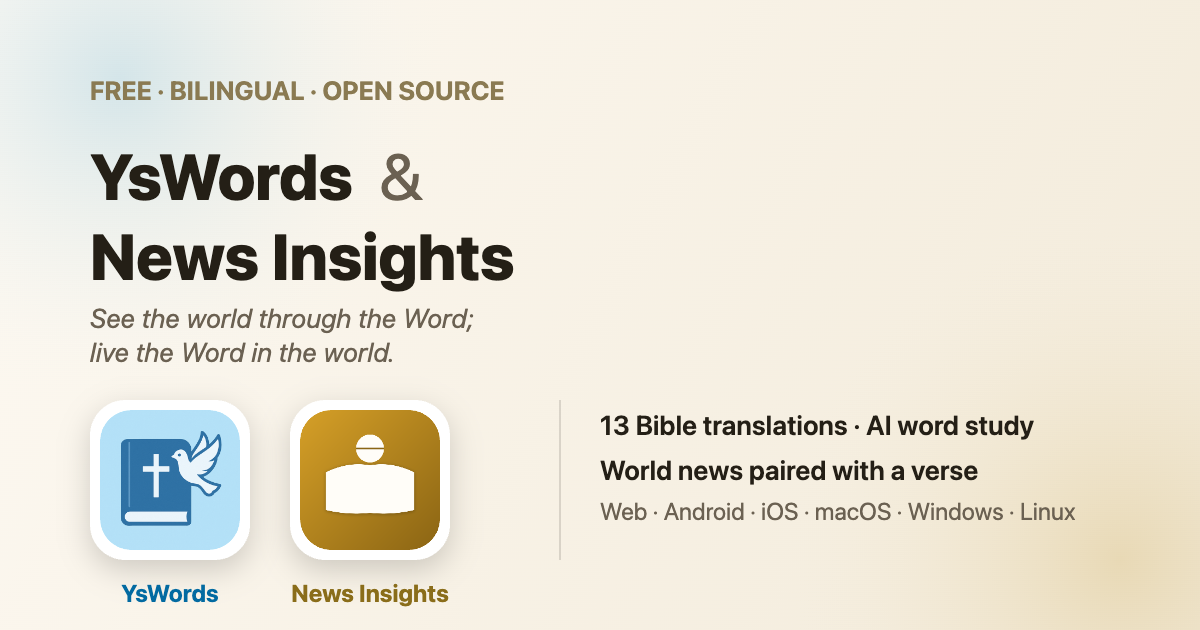
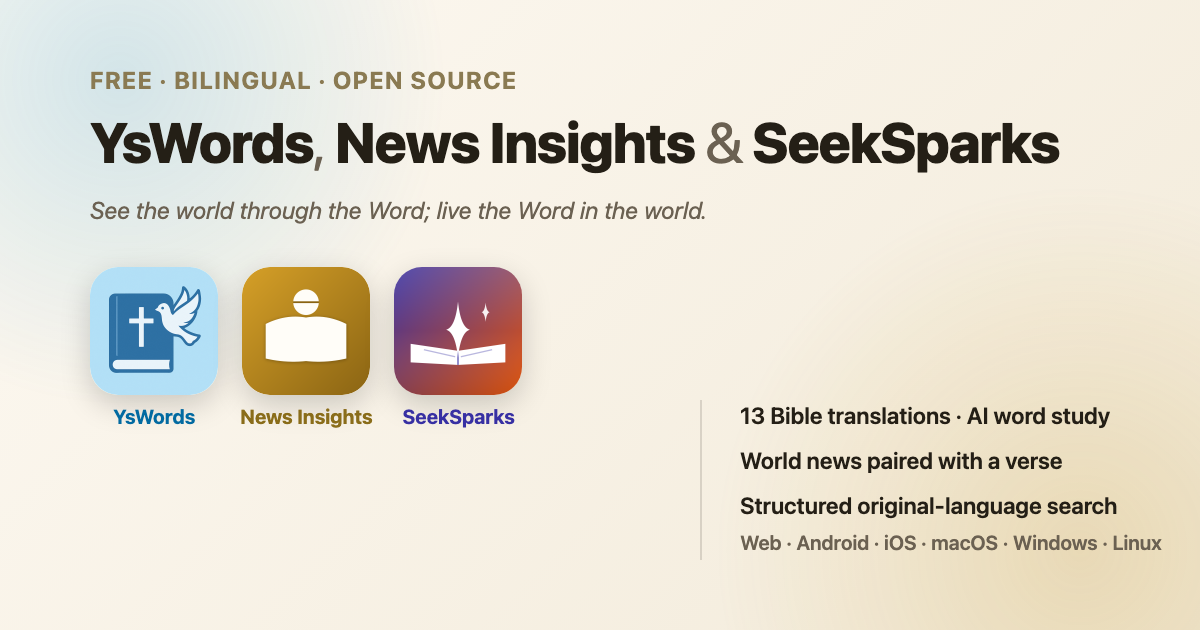
Add SeekSparks as a third app: nav, hero, section, footer, JSON-LD
New sibling app section alongside YsWords and News Insights, using its own
indigo-to-ember accent (matching the app's own logo) rather than reusing the
existing blue/amber palette. Includes an illustrative preview drawn from a
real structured-search query and a real word-study panel, a web-only access
card (SeekSparks has no native builds yet), and a regenerated 3-icon OG card.

diff --git a/index.html b/index.html
@@ -3,8 +3,8 @@
 <head>
 <meta charset="utf-8">
 <meta name="viewport" content="width=device-width, initial-scale=1">
-<title>YsWords &amp; News Insights — bilingual apps for Scripture and the world</title>
-<meta name="description" content="Two free bilingual apps: YsWords, a Bible reader with AI word study and 13 translations, and News Insights, world news paired with a Bible verse. Try them on web, or download for Android, iOS, macOS, Windows, and Linux.">
+<title>YsWords, News Insights &amp; SeekSparks — bilingual apps for Scripture and the world</title>
+<meta name="description" content="Three free bilingual apps: YsWords, a Bible reader with AI word study and 13 translations; News Insights, world news paired with a Bible verse; and SeekSparks, a structured original-language search tool for bigger screens. Try them on web, or download for Android, iOS, macOS, Windows, and Linux.">
 <link rel="canonical" href="https://suyangliupaul.github.io/yswords-apps/">
 <link rel="icon" href="icons/favicon.svg" type="image/svg+xml">
 <link rel="icon" href="icons/favicon-32.png" sizes="32x32" type="image/png">
@@ -15,16 +15,16 @@
 <meta name="theme-color" content="#17140d" media="(prefers-color-scheme: dark)">
 <meta property="og:type" content="website">
 <meta property="og:url" content="https://suyangliupaul.github.io/yswords-apps/">
-<meta property="og:title" content="YsWords &amp; News Insights — bilingual apps for Scripture and the world">
-<meta property="og:description" content="Two free bilingual apps: a Bible reader with AI word study, and world news paired with a verse. Web, Android, iOS, macOS, Windows, Linux.">
+<meta property="og:title" content="YsWords, News Insights &amp; SeekSparks — bilingual apps for Scripture and the world">
+<meta property="og:description" content="Three free bilingual apps: a Bible reader with AI word study, world news paired with a verse, and structured original-language search for bigger screens.">
 <meta property="og:image" content="https://suyangliupaul.github.io/yswords-apps/icons/og-image.png">
 <meta property="og:image:width" content="1200">
 <meta property="og:image:height" content="630">
 <meta property="og:locale" content="en_US">
 <meta property="og:locale:alternate" content="zh_CN">
 <meta name="twitter:card" content="summary_large_image">
-<meta name="twitter:title" content="YsWords &amp; News Insights — bilingual apps for Scripture and the world">
-<meta name="twitter:description" content="Two free bilingual apps: a Bible reader with AI word study, and world news paired with a verse.">
+<meta name="twitter:title" content="YsWords, News Insights &amp; SeekSparks — bilingual apps for Scripture and the world">
+<meta name="twitter:description" content="Three free bilingual apps: a Bible reader with AI word study, world news paired with a verse, and structured original-language search.">
 <meta name="twitter:image" content="https://suyangliupaul.github.io/yswords-apps/icons/og-image.png">
 <style>
   :root {
@@ -41,6 +41,10 @@
     --amber: #B8860B;
     --amber-dark: #8a6d1a;
     --amber-tint: #faf3e2;
+    --indigo: #3730A3;
+    --indigo-dark: #4c3db8;
+    --indigo-tint: #ece9fb;
+    --ember: #EA580C;
     --nav-h: 60px;
   }
   @media (prefers-color-scheme: dark) {
@@ -53,6 +57,8 @@
       --border: #3c3524;
       --blue-tint: #0d2430;
       --amber-tint: #2c2411;
+      --indigo-dark: #8b7ff0;
+      --indigo-tint: #211d3a;
     }
   }
   * { box-sizing: border-box; }
@@ -69,6 +75,7 @@
   img { max-width: 100%; display: block; }
   :focus-visible { outline: 2px solid var(--blue); outline-offset: 2px; border-radius: 4px; }
   .app.amber :focus-visible { outline-color: var(--amber); }
+  .app.indigo :focus-visible { outline-color: var(--indigo-dark); }
 
   .wrap { max-width: 1040px; margin: 0 auto; padding: 0 24px; }
 
@@ -213,6 +220,7 @@
   .jumpcard img { width: 30px; height: 30px; border-radius: 8px; flex-shrink: 0; }
   .jumpcard.blue:hover { border-color: var(--blue); color: var(--blue-dark); transform: translateY(-2px); box-shadow: 0 8px 20px rgba(2,132,199,0.18); }
   .jumpcard.amber:hover { border-color: var(--amber); color: var(--amber-dark); transform: translateY(-2px); box-shadow: 0 8px 20px rgba(184,134,11,0.18); }
+  .jumpcard.indigo:hover { border-color: var(--indigo-dark); color: var(--indigo-dark); transform: translateY(-2px); box-shadow: 0 8px 20px rgba(55,48,163,0.18); }
   @media (max-width: 560px) {
     .hero .jump { flex-direction: column; align-items: stretch; }
     .jumpcard { width: 100%; justify-content: center; text-align: center; }
@@ -239,6 +247,7 @@
 
   .app.blue .tagline { color: var(--blue-dark); }
   .app.amber .tagline { color: var(--amber-dark); }
+  .app.indigo .tagline { color: var(--indigo-dark); }
 
   h3.section-label {
     font-size: 0.78em;
@@ -283,6 +292,8 @@
   .app.blue ul.highlights li svg.hi { color: var(--blue); }
   .app.amber ul.highlights li { border-left: 3px solid var(--amber); }
   .app.amber ul.highlights li svg.hi { color: var(--amber); }
+  .app.indigo ul.highlights li { border-left: 3px solid var(--indigo-dark); }
+  .app.indigo ul.highlights li svg.hi { color: var(--indigo-dark); }
   ul.highlights li .hitext { padding-top: 1px; }
   ul.highlights.reveal li { transition-delay: calc(var(--i, 0) * 0.05s); }
 
@@ -347,6 +358,7 @@
   }
   .app.blue .platform-card .picon { background: var(--blue-tint); }
   .app.amber .platform-card .picon { background: var(--amber-tint); }
+  .app.indigo .platform-card .picon { background: var(--indigo-tint); }
   .platform-card .pname { font-weight: 700; font-size: 0.95em; }
   .platform-card .pnote { color: var(--text-muted); font-size: 0.86em; flex: 1; margin: 0; }
 
@@ -368,6 +380,8 @@
   .app.blue .dl:hover { background: var(--blue-dark); }
   .app.amber .dl { background: var(--amber); color: #fff; }
   .app.amber .dl:hover { background: var(--amber-dark); }
+  .app.indigo .dl { background: var(--indigo-dark); color: #fff; }
+  .app.indigo .dl:hover { background: var(--ember); }
   /* "ghost" = same pill family as the primary Open button, just a
      softer tint instead of a full fill, so a row of mixed Open/
      Download cards still reads as one coordinated button style. */
@@ -375,6 +389,8 @@
   .app.blue .dl.ghost:hover { background: var(--blue); color: #fff; }
   .app.amber .dl.ghost { background: var(--amber-tint); color: var(--amber-dark); border-color: transparent; }
   .app.amber .dl.ghost:hover { background: var(--amber); color: #fff; }
+  .app.indigo .dl.ghost { background: var(--indigo-tint); color: var(--indigo-dark); border-color: transparent; }
+  .app.indigo .dl.ghost:hover { background: var(--indigo-dark); color: #fff; }
 
   .callout {
     margin-top: 14px;
@@ -389,6 +405,7 @@
   .callout .cicon { font-size: 1.2em; flex-shrink: 0; line-height: 1.3; }
   .app.blue .callout { background: var(--blue-tint); }
   .app.amber .callout { background: var(--amber-tint); }
+  .app.indigo .callout { background: var(--indigo-tint); }
 
   .links-out { margin-top: 18px; font-size: 0.9em; }
   .links-out a { text-decoration: underline; text-underline-offset: 2px; }
@@ -451,9 +468,9 @@
       "@type": "WebSite",
       "@id": "https://suyangliupaul.github.io/yswords-apps/#website",
       "url": "https://suyangliupaul.github.io/yswords-apps/",
-      "name": "YsWords & News Insights",
+      "name": "YsWords, News Insights & SeekSparks",
       "alternateName": "以经观世间，在世践圣言",
-      "description": "Two free bilingual apps: YsWords, a Bible reader with AI word study and 13 translations, and News Insights, world news paired with a Bible verse.",
+      "description": "Three free bilingual apps: YsWords, a Bible reader with AI word study and 13 translations; News Insights, world news paired with a Bible verse; and SeekSparks, structured original-language search for bigger screens.",
       "inLanguage": ["en", "zh-Hans"],
       "author": { "@id": "https://suyangliupaul.github.io/yswords-apps/#author" }
     },
@@ -485,6 +502,17 @@
       "image": "https://suyangliupaul.github.io/yswords-apps/assets/news-insights/icon.png",
       "offers": { "@type": "Offer", "price": "0", "priceCurrency": "USD" },
       "description": "World news, read alongside Scripture — every headline is automatically paired by AI with a Bible verse and a short reflection."
+    },
+    {
+      "@type": "SoftwareApplication",
+      "name": "SeekSparks",
+      "alternateName": "寻光",
+      "applicationCategory": "EducationApplication",
+      "operatingSystem": "Web",
+      "url": "https://seeksparks.netlify.app",
+      "image": "https://suyangliupaul.github.io/yswords-apps/assets/seeksparks/icon.png",
+      "offers": { "@type": "Offer", "price": "0", "priceCurrency": "USD" },
+      "description": "A bilingual Bible exegesis tool for bigger screens, forked from YsWords, with structured original-language search — combine Strong's numbers with AND / OR / NOT / NEAR word-proximity."
     }
   ]
 }
@@ -506,6 +534,9 @@
   <symbol id="icon-bookmark" viewBox="0 0 24 24" fill="none" stroke="currentColor" stroke-linecap="round" stroke-linejoin="round"><path d="M6 3.5h12a1 1 0 0 1 1 1V21l-7-4-7 4V4.5a1 1 0 0 1 1-1z"/></symbol>
   <symbol id="icon-history" viewBox="0 0 24 24" fill="none" stroke="currentColor" stroke-linecap="round" stroke-linejoin="round"><circle cx="12" cy="12" r="9"/><path d="M12 7v5l3.5 2"/></symbol>
   <symbol id="icon-link-out" viewBox="0 0 24 24" fill="none" stroke="currentColor" stroke-linecap="round" stroke-linejoin="round"><path d="M9 6H5.5A1.5 1.5 0 0 0 4 7.5v11A1.5 1.5 0 0 0 5.5 20h11a1.5 1.5 0 0 0 1.5-1.5V15"/><path d="M14 4h6v6"/><path d="M20 4 11 13"/></symbol>
+  <symbol id="icon-search" viewBox="0 0 24 24" fill="none" stroke="currentColor" stroke-linecap="round" stroke-linejoin="round"><circle cx="10.5" cy="10.5" r="6.5"/><line x1="15.2" y1="15.2" x2="21" y2="21"/></symbol>
+  <symbol id="icon-panel-right" viewBox="0 0 24 24" fill="none" stroke="currentColor" stroke-linecap="round" stroke-linejoin="round"><rect x="3" y="4" width="18" height="16" rx="2"/><line x1="15" y1="4" x2="15" y2="20"/></symbol>
+  <symbol id="icon-book-open" viewBox="0 0 24 24" fill="none" stroke="currentColor" stroke-linecap="round" stroke-linejoin="round"><path d="M12 6.5c-1.6-1.3-3.7-2-6.5-2A1.5 1.5 0 0 0 4 6v11.5c2.4 0 4.6.6 6.2 1.9.5.4 1.1.4 1.6 0 1.6-1.3 3.8-1.9 6.2-1.9V6a1.5 1.5 0 0 0-1.5-1.5c-2.8 0-4.9.7-6.5 2Z"/><line x1="12" y1="6.5" x2="12" y2="19.4"/></symbol>
 </svg>
 
 <nav class="topbar">
@@ -526,6 +557,7 @@
     <div class="topnav-links">
       <a href="#yswords">YsWords</a>
       <a href="#news-insights">News Insights</a>
+      <a href="#seeksparks">SeekSparks</a>
       <a href="#about" class="i18n" data-en="About" data-zh="关于">About</a>
     </div>
     <button class="langtoggle" id="langToggle" type="button" aria-label="Switch language"></button>
@@ -535,8 +567,8 @@
 <header class="hero" id="main-content">
   <div class="wrap">
     <p class="motto i18n" data-en="See the world through the Word; live the Word in the world." data-zh="以经观世间，在世践圣言。">See the world through the Word; live the Word in the world.</p>
-    <h1 class="i18n" data-en="Two apps. Scripture and the world, side by side." data-zh="两款应用，圣经与世界，并肩同行。">Two apps. Scripture and the world, side by side.</h1>
-    <p class="i18n" data-en="Free, bilingual (English / 简体中文), and built to be actually used — not just installed once. Try either one straight in your browser, no account needed." data-zh="完全免费，中英双语，为长期使用而设计——不只是装上就忘。直接在浏览器中试用，无需注册。">Free, bilingual (English / 简体中文), and built to be actually used — not just installed once. Try either one straight in your browser, no account needed.</p>
+    <h1 class="i18n" data-en="Three apps. Scripture, the world, and deep study, side by side." data-zh="三款应用，圣经、世界与深度查经，并肩同行。">Three apps. Scripture, the world, and deep study, side by side.</h1>
+    <p class="i18n" data-en="Free, bilingual (English / 简体中文), and built to be actually used — not just installed once. Try any one straight in your browser, no account needed." data-zh="完全免费，中英双语，为长期使用而设计——不只是装上就忘。直接在浏览器中试用，无需注册。">Free, bilingual (English / 简体中文), and built to be actually used — not just installed once. Try any one straight in your browser, no account needed.</p>
     <div class="jump">
       <a class="jumpcard blue" href="#yswords">
         <img src="assets/yswords/icon.png" alt="" width="30" height="30">
@@ -545,6 +577,10 @@
       <a class="jumpcard amber" href="#news-insights">
         <img src="assets/news-insights/icon.png" alt="" width="30" height="30">
         <span class="i18n" data-en="News Insights — world news + verse" data-zh="News Insights —— 世界新闻 + 经文">News Insights — world news + verse</span>
+      </a>
+      <a class="jumpcard indigo" href="#seeksparks">
+        <img src="assets/seeksparks/icon.png" alt="" width="30" height="30">
+        <span class="i18n" data-en="SeekSparks — original-language search" data-zh="SeekSparks —— 原文结构化检索">SeekSparks — original-language search</span>
       </a>
     </div>
   </div>
@@ -730,11 +766,116 @@
   </div>
 </section>
 
+<section class="app indigo" id="seeksparks">
+  <div class="wrap">
+    <div class="app-head reveal">
+      <img class="icon" src="assets/seeksparks/icon.png" alt="SeekSparks icon" width="64" height="64">
+      <div>
+        <h2>SeekSparks <span class="zh">寻光</span></h2>
+      </div>
+    </div>
+    <p class="tagline i18n reveal" data-en="A bilingual Bible exegesis tool for bigger screens — structured original-language search built for iPad web, Mac, and Windows." data-zh="一款面向大屏幕的中英双语解经工具——为 iPad 网页版、Mac 与 Windows 打造的原文结构化检索。">A bilingual Bible exegesis tool for bigger screens — structured original-language search built for iPad web, Mac, and Windows.</p>
+
+    <h3 class="section-label i18n" data-en="Highlights" data-zh="亮点功能">Highlights</h3>
+    <ul class="highlights reveal">
+      <li style="--i:0"><svg class="hi"><use href="#icon-search"/></svg><span class="hitext"><strong class="i18n" data-en="Structured Strong's search" data-zh="结构化原文检索">Structured Strong's search</strong><span class="i18n" data-en=" — combine original-language words with AND / OR / NOT / NEAR (word-proximity) and a prefix wildcard" data-zh=" —— 用 AND / OR / NOT / NEAR（词语邻近）与前缀通配符组合原文词汇进行检索"> — combine original-language words with AND / OR / NOT / NEAR (word-proximity) and a prefix wildcard</span></span></li>
+      <li style="--i:1"><svg class="hi"><use href="#icon-panel-right"/></svg><span class="hitext"><strong class="i18n" data-en="Docked side panels" data-zh="停靠式侧边面板">Docked side panels</strong><span class="i18n" data-en=" — the word study opens as a persistent right-hand panel on desktop widths instead of covering the text" data-zh=" —— 在桌面宽度下，逐字解经以常驻右侧面板呈现，而非遮挡经文"> — the word study opens as a persistent right-hand panel on desktop widths instead of covering the text</span></span></li>
+      <li style="--i:2"><svg class="hi"><use href="#icon-columns"/></svg><span class="hitext"><strong class="i18n" data-en="Wide-screen by default" data-zh="默认大屏布局">Wide-screen by default</strong><span class="i18n" data-en=" — Split View and the sidebar are already open at tablet width and up, no extra tap needed" data-zh=" —— 平板及以上宽度下，分屏与侧边栏默认展开，无需额外点击"> — Split View and the sidebar are already open at tablet width and up, no extra tap needed</span></span></li>
+      <li style="--i:3"><svg class="hi"><use href="#icon-book-open"/></svg><span class="hitext"><strong class="i18n" data-en="Word-by-word study" data-zh="逐字解经">Word-by-word study</strong><span class="i18n" data-en=" — Strong's number, transliteration, and gloss for every original-language word, Hebrew and Greek" data-zh=" —— 每个希伯来文与希腊文原文词汇均附有 Strong's 编号、音译与释义"> — Strong's number, transliteration, and gloss for every original-language word, Hebrew and Greek</span></span></li>
+    </ul>
+
+    <h3 class="section-label i18n" data-en="See it" data-zh="应用截图">See it</h3>
+    <div class="ni-preview frame reveal">
+      <span class="bar"><span></span><span></span><span></span></span>
+      <svg viewBox="0 0 900 340" xmlns="http://www.w3.org/2000/svg" font-family="inherit">
+        <rect width="900" height="340" fill="#f2effa"/>
+        <text x="24" y="34" fill="#241f3d" font-size="18" font-weight="600">SeekSparks 寻光</text>
+        <text class="i18n" data-en="Structured original-language search" data-zh="原文结构化检索" x="24" y="54" fill="#544d75" font-size="11" font-style="italic">Structured original-language search</text>
+
+        <rect x="24" y="70" width="352" height="34" rx="8" fill="#ffffff" stroke="#ddd6f0"/>
+        <text x="36" y="92" fill="#241f3d" font-size="13" font-weight="600">G25 NEAR5 G26</text>
+
+        <rect x="24" y="112" width="60" height="24" rx="6" fill="#ece9fb" stroke="#ddd6f0"/>
+        <text x="35" y="128" fill="#3730A3" font-size="10" font-weight="700">AND</text>
+        <rect x="90" y="112" width="54" height="24" rx="6" fill="#ece9fb" stroke="#ddd6f0"/>
+        <text x="102" y="128" fill="#3730A3" font-size="10" font-weight="700">OR</text>
+        <rect x="150" y="112" width="60" height="24" rx="6" fill="#ece9fb" stroke="#ddd6f0"/>
+        <text x="161" y="128" fill="#3730A3" font-size="10" font-weight="700">NOT</text>
+        <rect x="216" y="112" width="66" height="24" rx="6" fill="#3730A3"/>
+        <text x="228" y="128" fill="#ffffff" font-size="10" font-weight="700">NEAR</text>
+
+        <text class="i18n" data-en="G25 NEAR5 G26 — 6 verses" data-zh="G25 NEAR5 G26 —— 共 6 节" x="24" y="164" fill="#241f3d" font-size="13" font-weight="700">G25 NEAR5 G26 — 6 verses</text>
+
+        <rect x="24" y="178" width="352" height="46" rx="8" fill="#ffffff" stroke="#ddd6f0"/>
+        <text x="36" y="194" fill="#3730A3" font-size="11" font-weight="700">John 15:9</text>
+        <text class="i18n" data-en="…I also have loved you; remain in My love." data-zh="……我也照样爱你们；你们要常在我的爱里。" x="36" y="212" fill="#544d75" font-size="10">…I also have loved you; remain in My love.</text>
+
+        <rect x="24" y="230" width="352" height="46" rx="8" fill="#ffffff" stroke="#ddd6f0"/>
+        <text x="36" y="246" fill="#3730A3" font-size="11" font-weight="700">1 John 4:7</text>
+        <text class="i18n" data-en="Beloved, let&#8217;s love one another; for love is from God…" data-zh="亲爱的弟兄啊，我们应当彼此相爱，因为爱是从神来的……" x="36" y="264" fill="#544d75" font-size="10">Beloved, let's love one another; for love is from God…</text>
+
+        <rect x="400" y="70" width="476" height="230" rx="14" fill="#ffffff" stroke="#ddd6f0"/>
+        <text class="i18n" data-en="Exegesis · Original · Strong&#8217;s gloss" data-zh="解经 · 原文 · Strong's 释义" x="424" y="100" fill="#241f3d" font-size="13" font-weight="700">Exegesis · Original · Strong's gloss</text>
+        <line x1="424" y1="112" x2="852" y2="112" stroke="#ece9fb"/>
+        <text x="424" y="132" fill="#544d75" font-size="10" font-weight="700">Genesis 1:2</text>
+
+        <rect x="424" y="144" width="96" height="52" rx="8" fill="#f2effa" stroke="#ddd6f0"/>
+        <text x="436" y="164" fill="#241f3d" font-size="13" font-style="italic">תֹ֨הוּ֙</text>
+        <text x="436" y="180" fill="#8b7ff0" font-size="9">H8414</text>
+        <text class="i18n" data-en="a desolation" data-zh="荒凉" x="436" y="192" fill="#544d75" font-size="9">a desolation</text>
+
+        <rect x="530" y="144" width="96" height="52" rx="8" fill="#f2effa" stroke="#ddd6f0"/>
+        <text x="542" y="164" fill="#241f3d" font-size="13" font-style="italic">וָבֹ֔הוּ</text>
+        <text x="542" y="180" fill="#8b7ff0" font-size="9">H922</text>
+        <text class="i18n" data-en="a vacuity" data-zh="空虚" x="542" y="192" fill="#544d75" font-size="9">a vacuity</text>
+
+        <rect x="636" y="144" width="96" height="52" rx="8" fill="#f2effa" stroke="#ddd6f0"/>
+        <text x="648" y="164" fill="#241f3d" font-size="13" font-style="italic">וְחֹ֖שֶׁךְ</text>
+        <text x="648" y="180" fill="#8b7ff0" font-size="9">H2822</text>
+        <text class="i18n" data-en="the dark" data-zh="黑暗" x="648" y="192" fill="#544d75" font-size="9">the dark</text>
+
+        <rect x="424" y="206" width="96" height="52" rx="8" fill="#f2effa" stroke="#ddd6f0"/>
+        <text x="436" y="226" fill="#241f3d" font-size="13" font-style="italic">מְרַחֶ֖פֶת</text>
+        <text x="436" y="242" fill="#8b7ff0" font-size="9">H7363</text>
+        <text class="i18n" data-en="to brood" data-zh="运行" x="436" y="254" fill="#544d75" font-size="9">to brood</text>
+
+        <rect x="530" y="206" width="96" height="52" rx="8" fill="#f2effa" stroke="#ddd6f0"/>
+        <text x="542" y="226" fill="#241f3d" font-size="13" font-style="italic">אֱלֹהִ֔ים</text>
+        <text x="542" y="242" fill="#8b7ff0" font-size="9">H430</text>
+        <text class="i18n" data-en="gods, God" data-zh="神" x="542" y="254" fill="#544d75" font-size="9">gods, God</text>
+
+        <rect x="636" y="206" width="96" height="52" rx="8" fill="#f2effa" stroke="#ddd6f0"/>
+        <text x="648" y="226" fill="#241f3d" font-size="13" font-style="italic">וְר֣וּחַ</text>
+        <text x="648" y="242" fill="#8b7ff0" font-size="9">H7307</text>
+        <text class="i18n" data-en="wind, spirit" data-zh="灵，风" x="648" y="254" fill="#544d75" font-size="9">wind, spirit</text>
+      </svg>
+      <p class="cap i18n" data-en="Illustrative preview, drawn from a real query and a real word-study panel — try the live app below." data-zh="示意图（取自真实检索与解经面板）——欢迎在下方直接体验实际应用。">Illustrative preview, drawn from a real query and a real word-study panel — try the live app below.</p>
+    </div>
+
+    <h3 class="section-label i18n" data-en="How to access it" data-zh="如何获取">How to access it</h3>
+    <div class="access reveal">
+      <div class="platform-grid">
+        <div class="platform-card">
+          <div class="ptop"><span class="picon">🌐</span><span class="pname i18n" data-en="Web" data-zh="网页版">Web</span></div>
+          <p class="pnote i18n" data-en="Works instantly in any modern browser — best on an iPad, Mac, or Windows screen." data-zh="在任意现代浏览器中即开即用——在 iPad、Mac 或 Windows 大屏上体验最佳。">Works instantly in any modern browser — best on an iPad, Mac, or Windows screen.</p>
+          <a class="dl" href="https://seeksparks.netlify.app" title="seeksparks.netlify.app"><span class="i18n" data-en="Open" data-zh="打开">Open</span></a>
+        </div>
+      </div>
+      <div class="callout">
+        <span class="cicon">🖥️</span>
+        <span><strong class="i18n" data-en="Built for bigger screens:" data-zh="为大屏幕而生：">Built for bigger screens:</strong>
+        <span class="i18n" data-en=" SeekSparks is web-only for now — no native desktop or mobile builds yet. It's designed for iPad web, Mac, and Windows browsers rather than phones; on a phone it still works, just without the wide-screen layout." data-zh=" SeekSparks 目前仅提供网页版——尚无原生桌面或移动应用。它是为 iPad 网页版、Mac 与 Windows 浏览器设计的，而非手机；在手机上仍可使用，只是没有大屏布局。"> SeekSparks is web-only for now — no native desktop or mobile builds yet. It's designed for iPad web, Mac, and Windows browsers rather than phones; on a phone it still works, just without the wide-screen layout.</span></span>
+      </div>
+      <div class="links-out i18n" data-en='Full feature list, developer setup, and search-query examples: <a href="https://github.com/SuyangLiuPaul/SeekSparks">github.com/SuyangLiuPaul/SeekSparks</a>' data-zh='完整功能列表、开发者部署说明与检索语法示例：<a href="https://github.com/SuyangLiuPaul/SeekSparks">github.com/SuyangLiuPaul/SeekSparks</a>'>Full feature list, developer setup, and search-query examples: <a href="https://github.com/SuyangLiuPaul/SeekSparks">github.com/SuyangLiuPaul/SeekSparks</a></div>
+    </div>
+  </div>
+</section>
+
 <section class="about" id="about">
   <div class="wrap">
     <h3 class="section-label i18n" data-en="About" data-zh="关于">About</h3>
-    <p class="i18n" data-en="YsWords and News Insights are built and maintained by one developer, Paul Liu, as free, ad-free tools for reading Scripture and staying informed." data-zh="YsWords 与 News Insights 均由一人独立开发与维护——Paul Liu，致力于提供免费、无广告的圣经阅读与资讯工具。">YsWords and News Insights are built and maintained by one developer, Paul Liu, as free, ad-free tools for reading Scripture and staying informed.</p>
-    <a class="contact-line" href="mailto:[email redacted]?subject=YsWords%20%26%20News%20Insights">
+    <p class="i18n" data-en="YsWords, News Insights, and SeekSparks are built and maintained by one developer, Paul Liu, as free, ad-free tools for reading Scripture and staying informed." data-zh="YsWords、News Insights 与 SeekSparks 均由一人独立开发与维护——Paul Liu，致力于提供免费、无广告的圣经阅读与资讯工具。">YsWords, News Insights, and SeekSparks are built and maintained by one developer, Paul Liu, as free, ad-free tools for reading Scripture and staying informed.</p>
+    <a class="contact-line" href="mailto:[email redacted]?subject=YsWords%2C%20News%20Insights%20%26%20SeekSparks">
       <span class="i18n" data-en="Made by Paul Liu" data-zh="作者 Paul Liu">Made by Paul Liu</span>
       <span class="sep">·</span>
       <span class="i18n" data-en="Questions, feedback, or anything else:" data-zh="问题、反馈或其他事宜：">Questions, feedback, or anything else:</span>
@@ -747,10 +888,11 @@
   <div class="ficons">
     <img src="assets/yswords/icon.png" alt="" width="34" height="34">
     <img src="assets/news-insights/icon.png" alt="" width="34" height="34">
+    <img src="assets/seeksparks/icon.png" alt="" width="34" height="34">
   </div>
-  <p class="i18n" data-en="News Insights reads from yswords-data, the same shared data pipeline built to serve YsWords — the AI verse-matching and translation engine behind both apps' Bible content." data-zh="News Insights 的数据来自 yswords-data——同一套为 YsWords 打造的共享数据管道，也是两款应用背后 AI 经文匹配与翻译的引擎。">News Insights reads from yswords-data, the same shared data pipeline built to serve YsWords — the AI verse-matching and translation engine behind both apps' Bible content.</p>
-  <p class="i18n" data-en="Both apps are free, open-source, and independently maintained. News content and images belong to their original publishers." data-zh="两款应用均为免费、开源，独立维护。新闻内容与图片版权归原发布方所有。">Both apps are free, open-source, and independently maintained. News content and images belong to their original publishers.</p>
-  <p class="copyright">© 2026 YsWords &amp; News Insights</p>
+  <p class="i18n" data-en="News Insights reads from yswords-data, the same shared data pipeline built to serve YsWords — the AI verse-matching and translation engine behind both apps' Bible content. SeekSparks is a fork of YsWords, rebuilt for bigger screens with structured original-language search." data-zh="News Insights 的数据来自 yswords-data——同一套为 YsWords 打造的共享数据管道，也是两款应用背后 AI 经文匹配与翻译的引擎。SeekSparks 则是 YsWords 的分支版本，为大屏幕重新设计，加入了原文结构化检索。">News Insights reads from yswords-data, the same shared data pipeline built to serve YsWords — the AI verse-matching and translation engine behind both apps' Bible content. SeekSparks is a fork of YsWords, rebuilt for bigger screens with structured original-language search.</p>
+  <p class="i18n" data-en="All three apps are free, open-source, and independently maintained. News content and images belong to their original publishers." data-zh="三款应用均为免费、开源，独立维护。新闻内容与图片版权归原发布方所有。">All three apps are free, open-source, and independently maintained. News content and images belong to their original publishers.</p>
+  <p class="copyright">© 2026 YsWords, News Insights &amp; SeekSparks</p>
 </footer>
 
 <script>